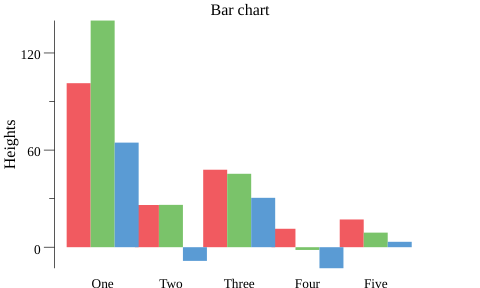
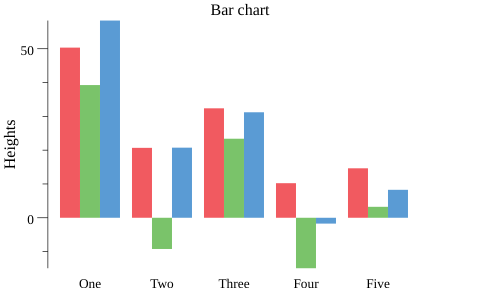
EBOLA

diff --git a/cmd/apiserver/main.go b/cmd/apiserver/main.go
@@ -1,77 +1,126 @@
 package main
 
 import (
-    "gonum.org/v1/plot"
-    "gonum.org/v1/plot/plotter"
-    "gonum.org/v1/plot/plotutil"
-    "gonum.org/v1/plot/vg"
+	"gonum.org/v1/plot"
+	"gonum.org/v1/plot/plotter"
+	"gonum.org/v1/plot/plotutil"
+	"gonum.org/v1/plot/vg"
+	"reflect"
 )
 
 type Row struct {
-    Name               string
-    TotalClicks        float64
-    TotalPaidClicks    float64
-    TotalProductClicks float64
+	Name               string
+	TotalClicks        float64
+	TotalPaidClicks    float64
+	TotalProductClicks float64
 }
 
-func toPercents(x, y float64) float64 {
-    z := x - y
-    return (z / y) * 100
+type Rows []Row
+type dataFrame []float64
+
+func (rows Rows) totalClicks() dataFrame {
+	var c dataFrame
+	for _, row := range rows {
+		c = append(c, row.TotalClicks)
+	}
+	return c
+}
+
+func (rows Rows) totalPaidClicks() dataFrame {
+	var c dataFrame
+	for _, row := range rows {
+		c = append(c, row.TotalPaidClicks)
+	}
+	return c
+}
+
+func (rows Rows) totalProductClicks() dataFrame {
+	var c dataFrame
+	for _, row := range rows {
+		c = append(c, row.TotalProductClicks)
+	}
+	return c
+}
+
+func (rows Rows) toPercents() Rows {
+	methods := map[string]func() dataFrame{
+		"TotalClicks":        rows.totalClicks,
+		"TotalPaidClicks":    rows.totalPaidClicks,
+		"TotalProductClicks": rows.totalProductClicks,
+	}
+
+	for field, method := range methods {
+		clicks := method()
+		last := len(clicks) - 1
+		clicks = clicks.toPercents(clicks[last])
+
+		for i, clickValue := range clicks {
+			v := reflect.ValueOf(&rows[i])
+			f := reflect.Indirect(v).FieldByName(field)
+			f.SetFloat(clickValue)
+		}
+	}
+
+	return rows
+}
+
+func (frame dataFrame) toPercents(v float64) dataFrame {
+	for i := 0; i < len(frame); i++ {
+		diff := frame[i] - v
+		frame[i] = diff / frame[i] * 100
+	}
+	return frame
 }
 
 func main() {
+	data := Rows{
+		{"Week 13", 5854147, 4421708, 2394563},
+		{"Week 14", 3665790, 2324214, 1331593},
+		{"Week 15", 4299656, 2677784, 1898413},
+		{"Week 16", 3238947, 1810889, 1265588},
+		{"Week 17", 3405983, 2008195, 1503263},
+		{"Week 18", 2907680, 1842166, 1454557},
+	}
 
-    data := []Row{
-        {"Week 13", 5854147, 4421708, 2394563},
-        {"Week 14", 3665790, 2324214, 1331593},
-        {"Week 15", 4299656, 2677784, 1898413},
-        {"Week 16", 3238947, 1810889, 1265588},
-        {"Week 17", 3405983, 2008195, 1503263},
-        {"Week 18", 2907680, 1842166, 1454557},
-    }
+	dataPercents := data.toPercents()
 
-    zaebumba := data[len(data)-1]
-    var groupA plotter.Values
-    var groupB plotter.Values
-    var groupC plotter.Values
+	var groupA plotter.Values
+	var groupB plotter.Values
+	var groupC plotter.Values
 
-    for _, row := range data[0 : len(data)-1] {
-        groupA = append(groupA, toPercents(row.TotalClicks, zaebumba.TotalClicks))
-        groupB = append(groupB, toPercents(row.TotalPaidClicks, zaebumba.TotalPaidClicks))
-        groupC = append(groupC, toPercents(row.TotalProductClicks, zaebumba.TotalProductClicks))
-    }
+	for _, row := range dataPercents {
+		groupA = append(groupA, row.TotalClicks)
+		groupB = append(groupB, row.TotalProductClicks)
+		groupC = append(groupC, row.TotalPaidClicks)
+	}
 
-    groupA = append(groupA, 0)
-    groupB = append(groupB, 0)
-    groupC = append(groupC, 0)
+	groups := []plotter.Values{groupA, groupB, groupC}
 
-    groups := []plotter.Values{groupA, groupB, groupC}
+	p, err := plot.New()
+	if err != nil {
+		panic(err)
+	}
+	p.Title.Text = "Bar chart"
+	p.Y.Label.Text = "Heights"
 
-    p, err := plot.New()
-    if err != nil {
-        panic(err)
-    }
-    p.Title.Text = "Bar chart"
-    p.Y.Label.Text = "Heights"
+	w := vg.Points(15)
 
-    w := vg.Points(18)
+	for i, group := range groups {
+		bar, err := plotter.NewBarChart(group, w)
+		if err != nil {
+			panic(err)
+		}
+		bar.LineStyle.Width = vg.Length(0)
+		bar.Color = plotutil.Color(i)
+		bar.Offset = vg.Length(i-1) * w
 
-    for i, group := range groups {
-        bar, err := plotter.NewBarChart(group, w)
-        if err != nil {
-            panic(err)
-        }
-        bar.LineStyle.Width = vg.Length(0)
-        bar.Color = plotutil.Color(i)
-        bar.Offset = vg.Length(i-1) * w
+		p.Add(bar)
+	}
 
-        p.Add(bar)
-    }
+	p.Legend.Top = true
+	p.NominalX("One", "Two", "Three", "Four", "Five")
 
-    p.Legend.Top = true
-    p.NominalX("One", "Two", "Three", "Four", "Five")
-
-    if err := p.Save(5*vg.Inch, 3*vg.Inch, "barchart.png"); err != nil {
-        panic(err)
-    }
+	if err := p.Save(5*vg.Inch, 3*vg.Inch, "barchart.png"); err != nil {
+		panic(err)
+	}
 }
